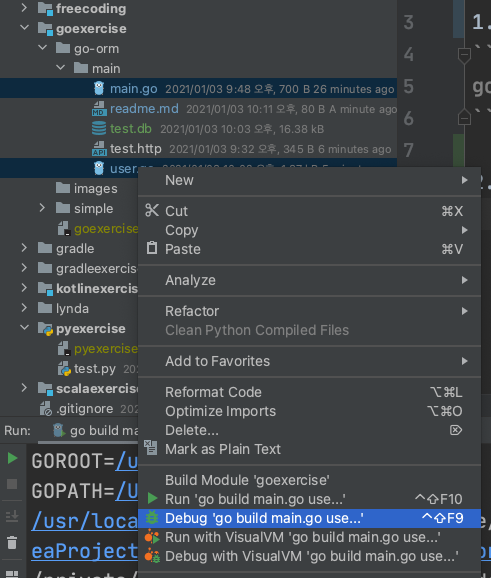
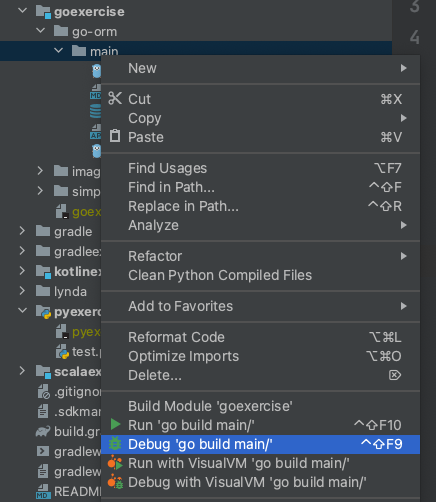
[Go] changed the explain picture for execution with multi go files.

diff --git a/goexercise/go-orm/main/readme.md b/goexercise/go-orm/main/readme.md
@@ -7,4 +7,6 @@ go run *.go
 ```
 
 ######2. in IDE
+- execute at the directory containing files
+
 ![superkey](../../images/executeInIDE.png)
